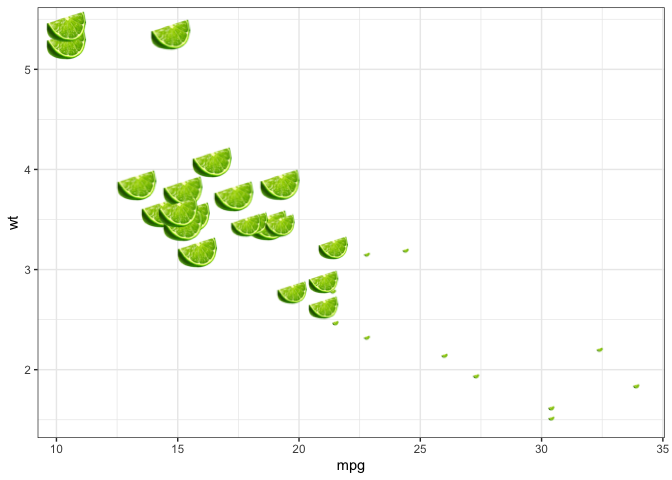
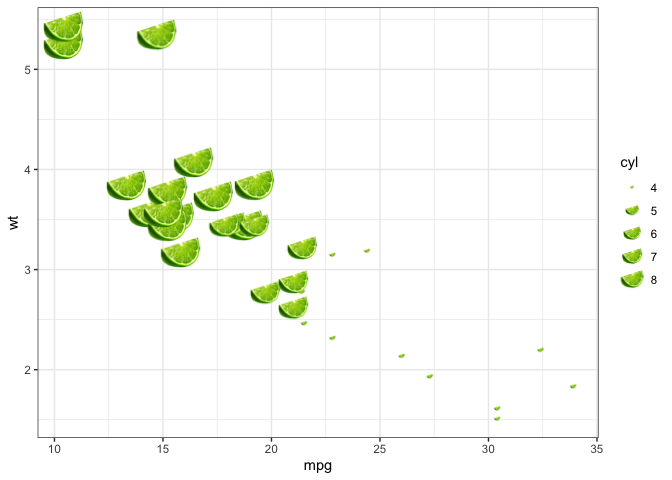
geom_pint

diff --git a/README.md b/README.md
@@ -13,6 +13,11 @@ questioning](https://img.shields.io/badge/lifecycle-questioning-blue.svg)](https
 of all the zarking times I frakking type `geom_lime()` instead of
 `geom_line()`
 
+## What’s in the box:
+
+  - `geom_lime()` for drawing limes
+  - `geom_pint()` for drawing pints
+
 ## Installation
 
 You can install from
@@ -23,7 +28,7 @@ You can install from
 remotes::install_github('coolbutuseless/geomlime')
 ```
 
-## Example Usage
+## Example Usage: `geom_lime()`
 
 ``` r
 library(ggplot2)
@@ -31,11 +36,28 @@ library(geomlime)
 
 ggplot(mtcars) +
   geom_lime(aes(mpg, wt, size = cyl)) + 
-  theme_bw() + 
-  theme(legend.position = 'none')
+  theme_bw()
 ```
 
 <img src="man/figures/README-example-1.png" width="100%" />
+
+## Example Usage: `geom_pint()`
+
+``` r
+ggplot(mtcars) +
+  geom_pint(aes(mpg, wt, size = cyl)) + 
+  theme_bw()
+```
+
+<img src="man/figures/README-example2-1.png" width="100%" />
+
+## Similar Software
+
+  - [Michael Barrowman’s](https://twitter.com/MyKo101AB)
+    [typos](https://github.com/MyKo101/typos/) package for a great way
+    of automatically handling typos in R
+  - [ggimage](https://cran.r-project.org/web/packages/ggimage/index.html)
+    on CRAN for when you really do want to put images in a ggplot
 
 ## Acknowledgements
 

diff --git a/NEWS.md b/NEWS.md
@@ -1,3 +1,9 @@
-# geomlime 0.1.0
+# geomlime 0.1.0  2020-10-14
+
+* Added a legend key drawing function
+* Added `geom_pint()`
+
+
+# geomlime 0.1.0  2020-10-13
 
 * Initial release
